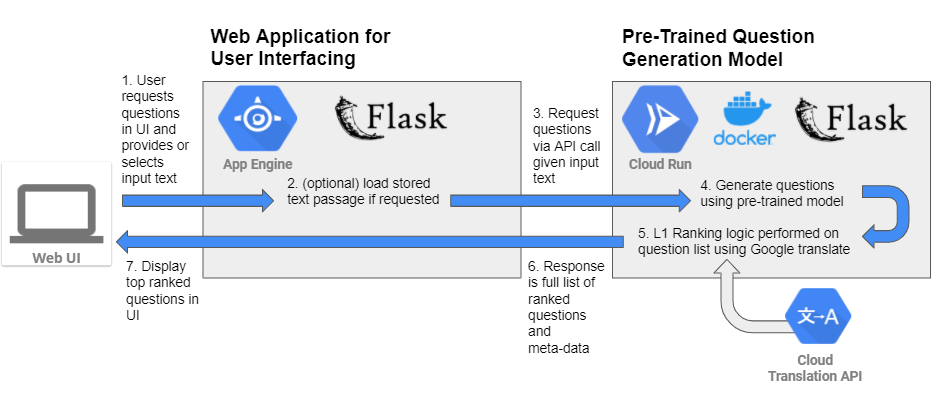
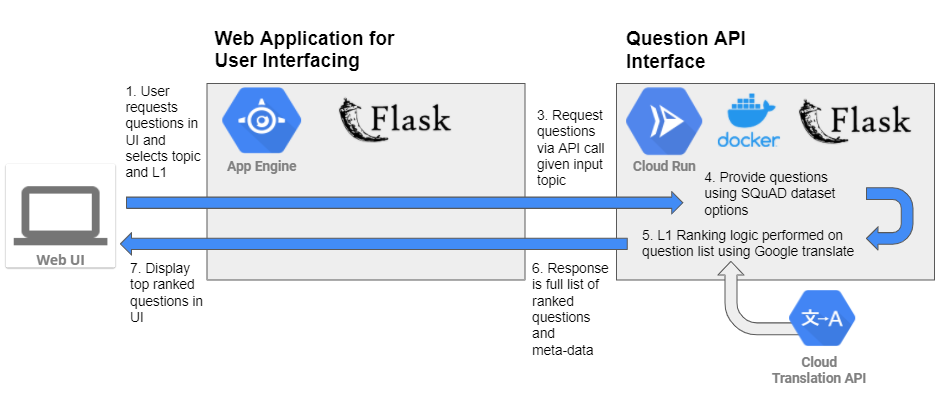
Final documentation updates for Phase 1

diff --git a/README.md b/README.md
@@ -1,21 +1,22 @@
 # ESL-L1-question-targeting
-GT OMSCS CS6460 Educational Technology Project: ESL Reading Comprehension Question Interface with L1 Targeting
+GT OMSCS CS6460 Educational Technology Project: ESL Reading Comprehension Question Interface with L1 Targeting. For more context on the purpose and design of this project, see the full proposal here: https://drive.google.com/file/d/1D6FmIAyxu0lAiTcQVQZiAyAmF0SqHFsV/view?usp=sharing
 
 ## Architecture
 Architecture is broken into two components: Web UI front end hosted with Google Cloud Platform (GCP) App Engine, and a backend API hosted with GCP Cloud Run. Both components are written in Python Flask
 ![Architecture Diagram](architecture-diagram.PNG)
 
-### Question Generation Model: ERNIE
-The question generation functionality is implemented using a pre-trained model from https://github.com/PaddlePaddle/ERNIE
+## To deploy the API code in GCP Cloud Run
+[![Run on Google Cloud](https://storage.googleapis.com/cloudrun/button.svg)](https://console.cloud.google.com/cloudshell/editor?shellonly=true&cloudshell_image=gcr.io/cloudrun/button&cloudshell_git_repo=https://github.com/byramag/esl-question-generator)
 
-This model was chosen as it is ranked highest in BLEU 4 score on the SQuAD dataset according to https://paperswithcode.com/sota/question-generation-on-squad11. This model is also appropriate as it provides the pre-trained model and the library to interface with it, which will allow for ease of integration.
-
-### Sample Data
+## Standard Question Data
 20 sample data files under the path ./data sourced from https://www.myenglishpages.com/site_php_files/reading.php
 
-These reading comprehension passages are relatively short and at a beginner/intermediate reading level and cover a wide range of context domains. The sample passages from the source website contain some human created questions which can be used as a comparison tool for the generated questions.
+These reading comprehension passages are relatively short and at a beginner/intermediate reading level and cover a wide range of context domains. The sample passages from the source website contain some human created questions which can be used as the returned questions.
 
-More test data will be added as needed to test performance on for higher difficulty and longer passages. Future work: robust testing using Stanford NLP groups SQuAD 1.1 dataset: https://rajpurkar.github.io/SQuAD-explorer/explore/1.1/dev/ 
+The larger set of data is directed for higher question difficulty and longer passages. This large dataset is the Stanford NLP group's SQuAD 2.0 dataset and can be found here: https://rajpurkar.github.io/SQuAD-explorer/
 
-## To run code in GCP Cloud Run
-[![Run on Google Cloud](https://storage.googleapis.com/cloudrun/button.svg)](https://console.cloud.google.com/cloudshell/editor?shellonly=true&cloudshell_image=gcr.io/cloudrun/button&cloudshell_git_repo=https://github.com/byramag/esl-question-generator)
+### Discussion on Question Generation
+The question generation functionality was intended to be implemented using a pre-trained model from https://github.com/PaddlePaddle/ERNIE This model was chosen as it is ranked highest in BLEU 4 score on the SQuAD dataset according to https://paperswithcode.com/sota/question-generation-on-squad11. This model is also appropriate as it provides the pre-trained model and the library to interface with it, which will allow for ease of integration.
+
+However, several delays were encountered when trying to implement the use of this and other pretrained models, which led to the decision to reduce scope of this project from dynamic question generation given any input text to the use of large static datasets. Dynamic question generation will remain a future goal to be implemented at a later stage (but not associated with the deliverable for CS6460).
+
